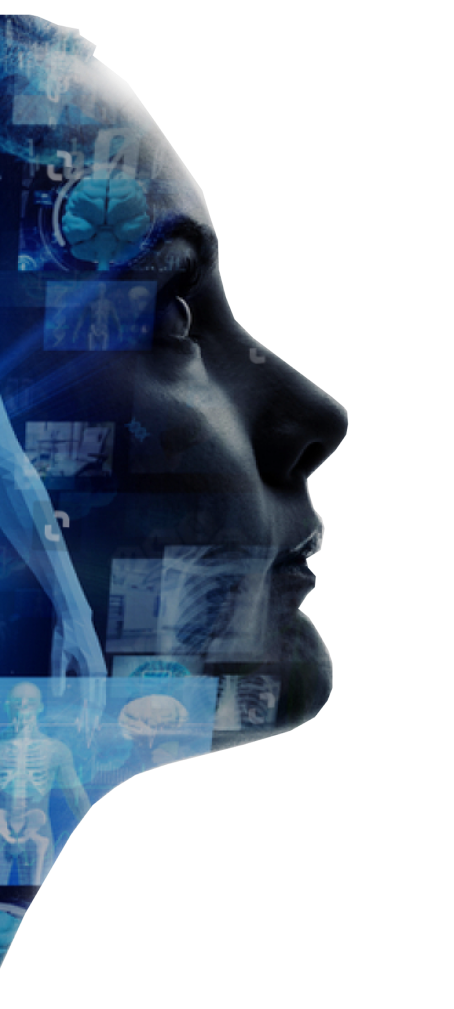
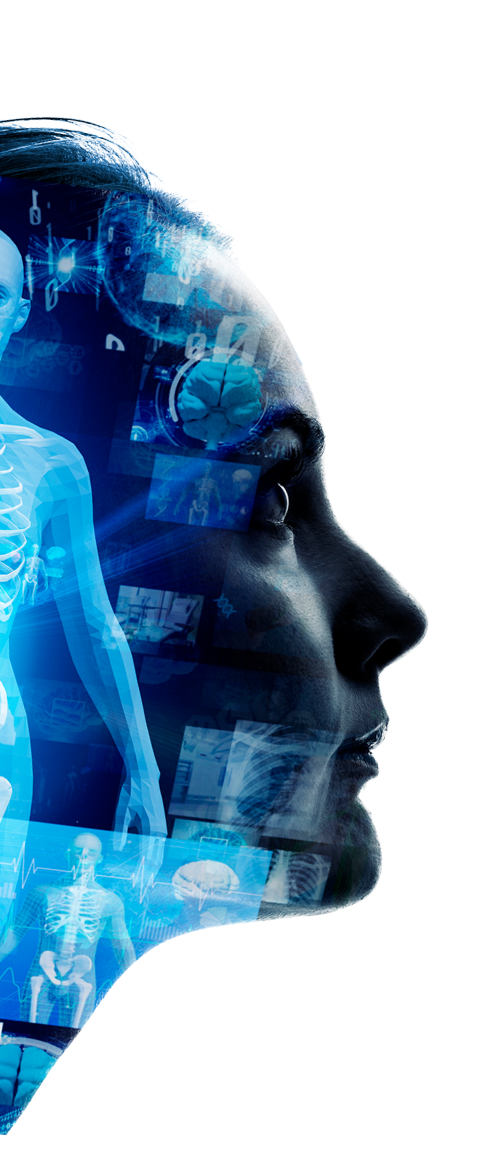
consultoria

diff --git a/css/styles.css b/css/styles.css
@@ -91,7 +91,7 @@ header {
 .face1 {
   position: absolute;
   left: 0;
-  top: 0px;
+  top: -100px;
   z-index: 5;
 }
 /*consultoria*/
@@ -102,6 +102,7 @@ header {
   font-size: 28px;
   line-height: 29px;
   color: #c6d7ea;
+  text-shadow: 0px 0px 6px rgba(0, 0, 0, 0.25);
 }
 .title-page .destacado {
   font-size: 53px;

diff --git a/includes/header.php b/includes/header.php
@@ -1,23 +1,25 @@
 <header>
-      <nav class="">
-        <div class="container-fluid">
-          <main class="d-flex  justify-content-between align-items-start container-fluid">
+  <section id="cab-ctn" class="cab-ctn">
+    <div class="container-fluid">
+          <section class="n d-flex  justify-content-between align-items-start container-fluid">
             <img src="img/logo_mayo.svg" alt="Ediciones Mayo" width="130">
             <button class="toggle-overlay">
               <i class="fa-solid fa-bars-sort"></i>
             </button>
             <div class="d-flex">
               <div class="mx-4">ES|EN</div>
-              <div class="menu-right">
-                INICIO<br>
-                NOSOTROS<br>
-                CONSULTORÍA<br>
-                CONTENIDO<br>
-                DIFUSIÓN<br>
-                CONTACTO<br>
-                </div>
+              <nav class="menu-right">
+                <ul>
+                  <li><a href="#inicio">INICIO</a></li>
+                  <li><a href="#nosotros">NOSOTROS</a></li>
+                  <li><a href="#consultoria">CONSULTORÍA</a></li>
+                  <li><a href="#">CONTENIDO</a></li>
+                  <li><a href="#">DIFUSIÓN</a></li>
+                  <li><a href="#">CONTACTO</a></li>
+                </ul>
+              </nav>
             </div>
-          </main>
+          </section>
 
           <aside>
             <div class="outer-close toggle-overlay">
@@ -25,15 +27,16 @@
             </div>
             <nav>
               <ul>
-                <li><a href="#">INICIO</a></li>
-                <li><a href="#">NOSOTROS</a></li>
-                <li><a href="#">CONSULTORÍA</a></li>
+                <li><a href="#" class="toggle-overlay">INICIO</a></li>
+                <li><a href="#nosotros" class="toggle-overlay">NOSOTROS</a></li>
+                <li><a href="#consultoria" class="toggle-overlay">CONSULTORÍA</a></li>
                 <li><a href="#">CONTENIDO</a></li>
                 <li><a href="#">DIFUSIÓN</a></li>
                 <li><a href="#">CONTACTO</a></li>
               </ul>
             </nav>
           </aside>
-        </div>
-      </nav>
+    </div>
+  </section>
+    
     </header>

diff --git a/index.php b/index.php
@@ -109,13 +109,25 @@
   <section class="">
   <div id="consultoria"></div>
   <div class="container-fluid">
-    <div class="ml-3 title-page py-4"><span class="destacado">consultoRía</span> contenido producción difusión  </div>
+    <div class="ml-3 title-page py-4 text-center animate"
+          data-animate="fadeInRightBig"
+          data-duration="1s"
+          data-delay="0.6s"
+          data-offset="100"
+          data-iteration="1">
+          <span class="destacado text-white">consultoRía</span> contenido producción difusión  
+    </div>
     <article class="d-flex align-items-center">
       <div class="col-6 text-end">
         <img src="img/img-ref.png" alt="consultoria" class="img-fluid">
       </div>
       <div class="col-6 relative">
-      <img src="img/consultoria.svg" alt="consultoria" class="triangle1">
+      <img src="img/consultoria.svg" alt="consultoria" class="triangle1 animate"
+          data-animate="zoomIn"
+          data-duration="4s"
+          data-delay="0.3s"
+          data-offset="100"
+          data-iteration="1">
       </div>
     </article>
     <article class="d-flex">
@@ -137,7 +149,7 @@
     <!--scripts-->
     <script  src="https://code.jquery.com/jquery-3.6.0.min.js" crossorigin="anonymous"></script>
     <script src="js/jquery.scrolla.min.js"></script>
-    <script src="js/multi-animated-counter.js"></script>
+    <!-- <script src="js/multi-animated-counter.js"></script> -->
     <script src="https://cdn.jsdelivr.net/gh/dixonandmoe/rellax@master/rellax.min.js"></script>
     <script src="https://cdn.jsdelivr.net/npm/bootstrap@5.0.2/dist/js/bootstrap.bundle.min.js" crossorigin="anonymous"></script>
     <script src="https://cdnjs.cloudflare.com/ajax/libs/animejs/3.2.1/anime.min.js" crossorigin="anonymous"referrerpolicy="no-referrer" ></script>

diff --git a/includes/head.php b/includes/head.php
@@ -22,7 +22,9 @@
       rel="stylesheet"
       href="https://cdnjs.cloudflare.com/ajax/libs/animate.css/4.1.1/animate.min.css"
     />
+    <link rel="stylesheet" href="https://unpkg.com/aos@next/dist/aos.css" />
     <link rel="stylesheet" href="css/menu.css"/>
+    <link rel="stylesheet" href="css/counters.css"/>
     <link rel="stylesheet" href="css/styles.css"/>
     <title>Web Mayo</title>
   </head>
